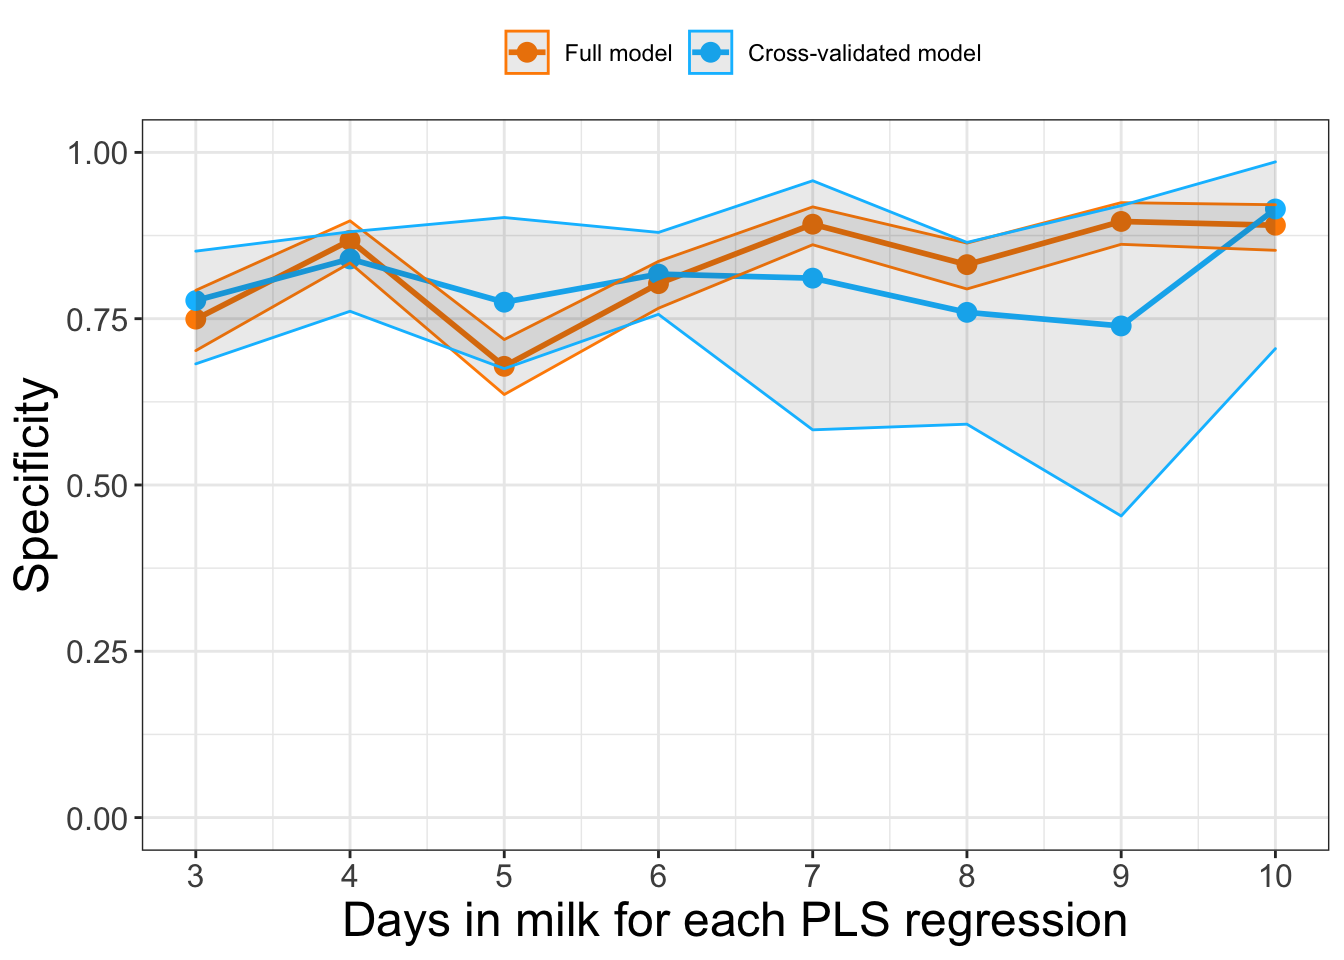
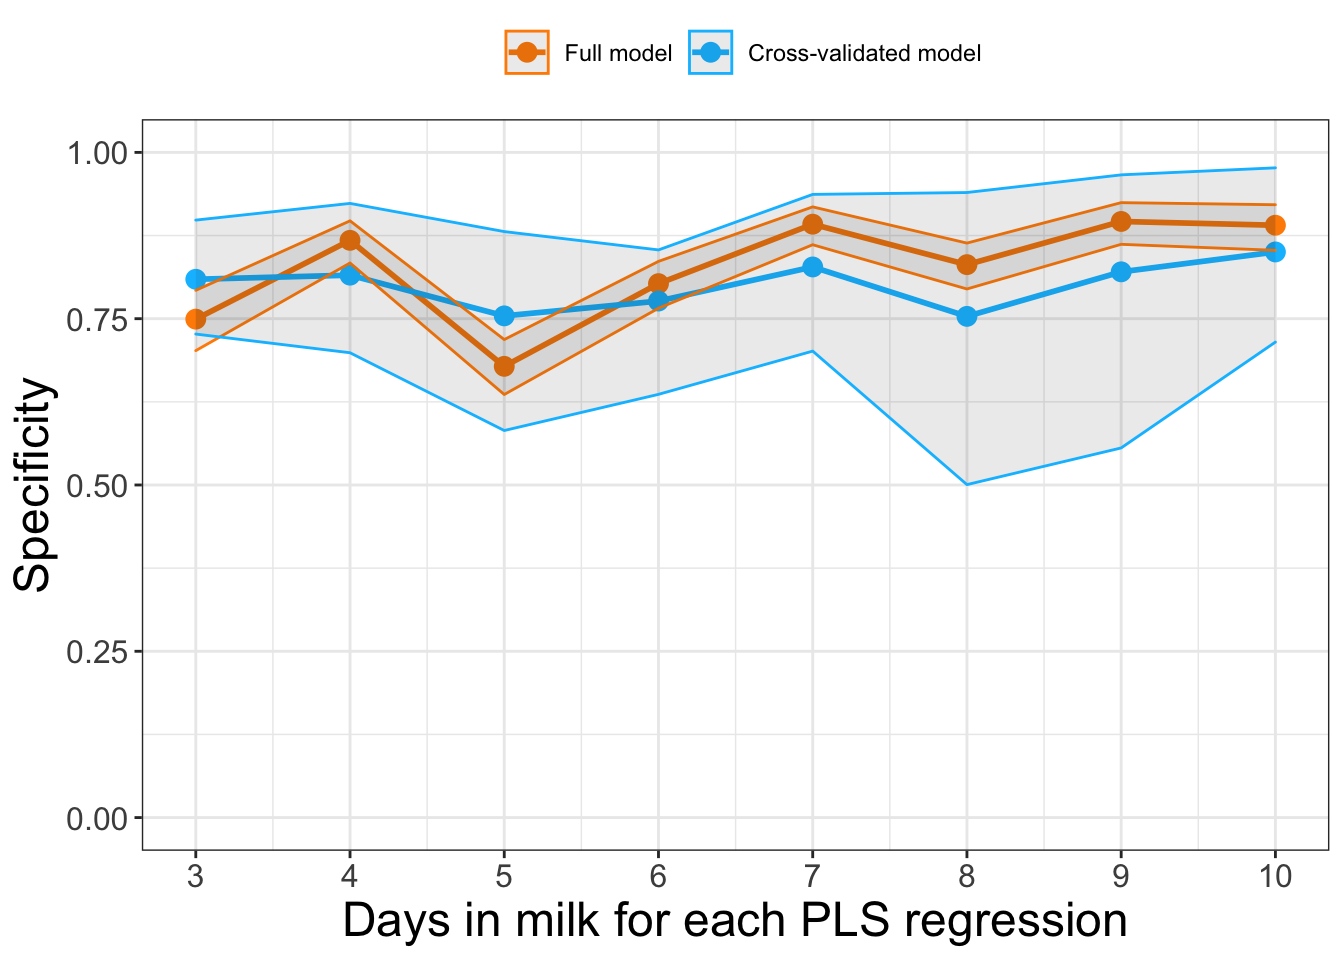
fixing tables and adding set.seed(1)

diff --git a/index.html b/index.html
@@ -439,57 +439,27 @@ df = df %&gt;%
 <div id="number-of-cows-enrolled" class="section level3">
 <h3>Number of cows enrolled</h3>
 <table>
-<caption>
-Number of cows enrolled in study
-</caption>
+<caption>Number of cows enrolled in study</caption>
 <thead>
-<tr>
-<th style="text-align:center;">
-Parity 1
-</th>
-<th style="text-align:center;">
-Parity 2
-</th>
-<th style="text-align:center;">
-Parity 3
-</th>
-<th style="text-align:center;">
-Parity 4
-</th>
-<th style="text-align:center;">
-Parity 5
-</th>
-<th style="text-align:center;">
-Parity 6
-</th>
-<th style="text-align:center;">
-Parity 7
-</th>
+<tr class="header">
+<th align="center">Parity 1</th>
+<th align="center">Parity 2</th>
+<th align="center">Parity 3</th>
+<th align="center">Parity 4</th>
+<th align="center">Parity 5</th>
+<th align="center">Parity 6</th>
+<th align="center">Parity 7</th>
 </tr>
 </thead>
 <tbody>
-<tr>
-<td style="text-align:center;">
-306
-</td>
-<td style="text-align:center;">
-274
-</td>
-<td style="text-align:center;">
-232
-</td>
-<td style="text-align:center;">
-117
-</td>
-<td style="text-align:center;">
-58
-</td>
-<td style="text-align:center;">
-25
-</td>
-<td style="text-align:center;">
-12
-</td>
+<tr class="odd">
+<td align="center">306</td>
+<td align="center">274</td>
+<td align="center">232</td>
+<td align="center">117</td>
+<td align="center">58</td>
+<td align="center">25</td>
+<td align="center">12</td>
 </tr>
 </tbody>
 </table>
@@ -499,63 +469,29 @@ Parity 7
 <div id="number-of-samples-at-each-timepoint" class="section level3">
 <h3>Number of samples at each timepoint</h3>
 <table>
-<caption>
-Number of samples at each DIM
-</caption>
+<caption>Number of samples at each DIM</caption>
 <thead>
-<tr>
-<th style="text-align:center;">
-3 DIM
-</th>
-<th style="text-align:center;">
-4 DIM
-</th>
-<th style="text-align:center;">
-5 DIM
-</th>
-<th style="text-align:center;">
-6 DIM
-</th>
-<th style="text-align:center;">
-7 DIM
-</th>
-<th style="text-align:center;">
-8 DIM
-</th>
-<th style="text-align:center;">
-9 DIM
-</th>
-<th style="text-align:center;">
-10 DIM
-</th>
+<tr class="header">
+<th align="center">3 DIM</th>
+<th align="center">4 DIM</th>
+<th align="center">5 DIM</th>
+<th align="center">6 DIM</th>
+<th align="center">7 DIM</th>
+<th align="center">8 DIM</th>
+<th align="center">9 DIM</th>
+<th align="center">10 DIM</th>
 </tr>
 </thead>
 <tbody>
-<tr>
-<td style="text-align:center;">
-465
-</td>
-<td style="text-align:center;">
-549
-</td>
-<td style="text-align:center;">
-579
-</td>
-<td style="text-align:center;">
-562
-</td>
-<td style="text-align:center;">
-523
-</td>
-<td style="text-align:center;">
-506
-</td>
-<td style="text-align:center;">
-409
-</td>
-<td style="text-align:center;">
-355
-</td>
+<tr class="odd">
+<td align="center">465</td>
+<td align="center">549</td>
+<td align="center">579</td>
+<td align="center">562</td>
+<td align="center">523</td>
+<td align="center">506</td>
+<td align="center">409</td>
+<td align="center">355</td>
 </tr>
 </tbody>
 </table>
@@ -565,27 +501,17 @@ Number of samples at each DIM
 <div id="number-of-healthy-and-sick-cows" class="section level3">
 <h3>Number of healthy and sick cows</h3>
 <table>
-<caption>
-Number of healthy and sick cows
-</caption>
+<caption>Number of healthy and sick cows</caption>
 <thead>
-<tr>
-<th style="text-align:center;">
-Healthy
-</th>
-<th style="text-align:center;">
-Sick
-</th>
+<tr class="header">
+<th align="center">Healthy</th>
+<th align="center">Sick</th>
 </tr>
 </thead>
 <tbody>
-<tr>
-<td style="text-align:center;">
-881
-</td>
-<td style="text-align:center;">
-143
-</td>
+<tr class="odd">
+<td align="center">881</td>
+<td align="center">143</td>
 </tr>
 </tbody>
 </table>
@@ -696,63 +622,29 @@ AUC.high[8] = ci.auc(df10$sick, df10$predict.prob, conf.level = 0.95)[3]</code><
 <hr />
 <p><br></p>
 <table>
-<caption>
-Area under ROC curve for PLS model at each DIM
-</caption>
+<caption>Area under ROC curve for PLS model at each DIM</caption>
 <thead>
-<tr>
-<th style="text-align:center;">
-3 DIM
-</th>
-<th style="text-align:center;">
-4 DIM
-</th>
-<th style="text-align:center;">
-5 DIM
-</th>
-<th style="text-align:center;">
-6 DIM
-</th>
-<th style="text-align:center;">
-7 DIM
-</th>
-<th style="text-align:center;">
-8 DIM
-</th>
-<th style="text-align:center;">
-9 DIM
-</th>
-<th style="text-align:center;">
-10 DIM
-</th>
+<tr class="header">
+<th align="center">3 DIM</th>
+<th align="center">4 DIM</th>
+<th align="center">5 DIM</th>
+<th align="center">6 DIM</th>
+<th align="center">7 DIM</th>
+<th align="center">8 DIM</th>
+<th align="center">9 DIM</th>
+<th align="center">10 DIM</th>
 </tr>
 </thead>
 <tbody>
-<tr>
-<td style="text-align:center;">
-0.8173998
-</td>
-<td style="text-align:center;">
-0.805677
-</td>
-<td style="text-align:center;">
-0.8195109
-</td>
-<td style="text-align:center;">
-0.8251451
-</td>
-<td style="text-align:center;">
-0.84375
-</td>
-<td style="text-align:center;">
-0.7341346
-</td>
-<td style="text-align:center;">
-0.7379747
-</td>
-<td style="text-align:center;">
-0.7409942
-</td>
+<tr class="odd">
+<td align="center">0.8173998</td>
+<td align="center">0.805677</td>
+<td align="center">0.8195109</td>
+<td align="center">0.8251451</td>
+<td align="center">0.84375</td>
+<td align="center">0.7341346</td>
+<td align="center">0.7379747</td>
+<td align="center">0.7409942</td>
 </tr>
 </tbody>
 </table>
@@ -1038,7 +930,8 @@ cross.validate = function(input.data, num.groups) {
 <div id="cross-validation-of-each-pls-model" class="section level5">
 <h5>Cross validation of each PLS model</h5>
 <hr />
-<pre class="r"><code>num.sim = 10</code></pre>
+<pre class="r"><code>num.sim = 10
+set.seed(1)</code></pre>
 <p>To robustly cross-validate our model, I use the <code>cross.validate</code> function as part of a loop. The code below will repeatedly run the <code>cross.validate</code> function 10 times, and for each repetition it will calculate sensitivity, specificity, positive predictive value, negative predictive value, and the area under the ROC curve. This process is repeated for each PLS model and the number of groups specified in the <code>cross.validate</code> function is set at 2. Consequently, the dataset for each day in milk will be randomly split into two equal groups: a training set and a testing set.</p>
 <p>The cross-validate values for sensitivity, specificity, positive predictive value, negative predictive value, and AUC is calculated as the mean value across 10 repetitions. Bootstrapped 95% confidence intervals are calculated as the 2.5th percentile (lower bound) and 97.5th percentile (upper bound) of the resulting vector of diagnostic values. For example, a vector will be produced with 10 values for sensitivity. The 95% confidence interval will be calculated as the 2.5th percentile and 97.5th percentile of this vector.</p>
 <pre class="r"><code>cv.avg.sens = rep(0,8)
